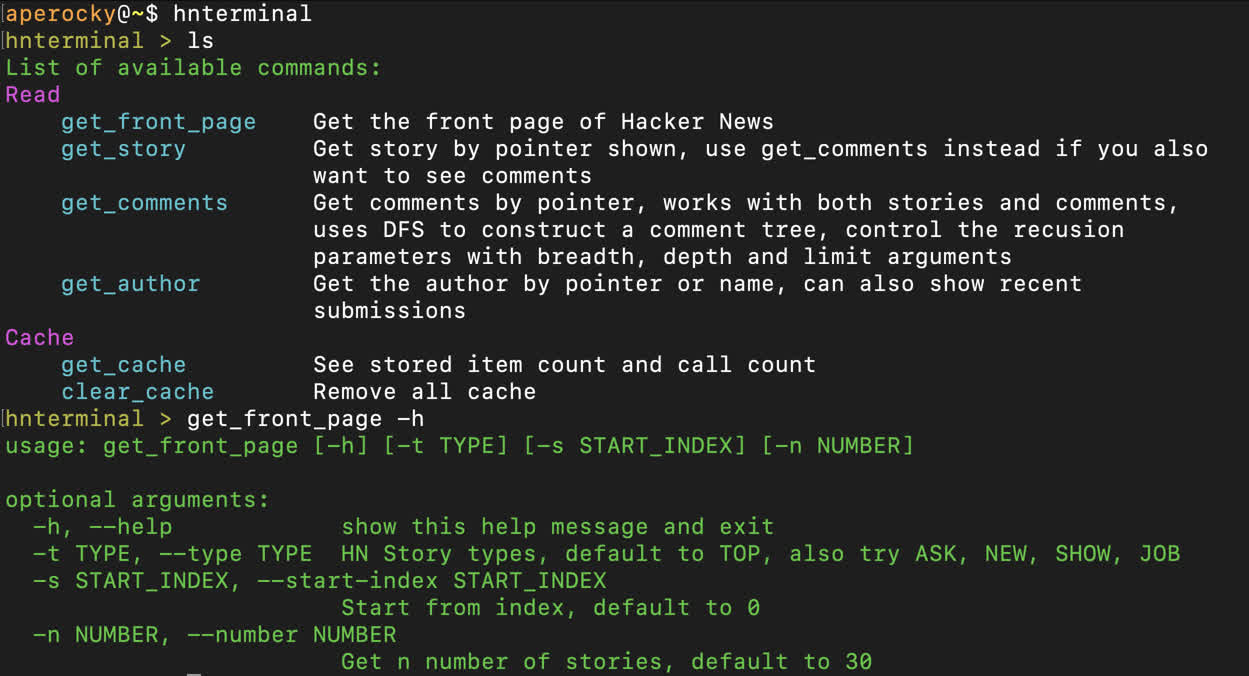
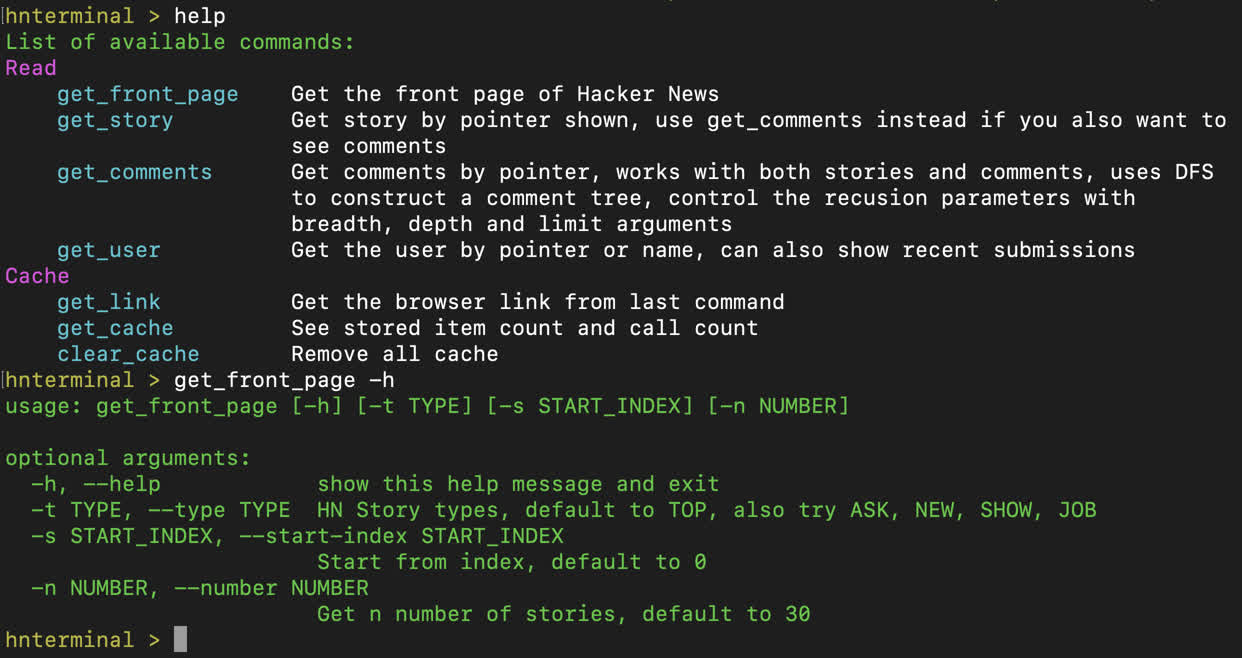
Add get_link to get browser link for previous commands, move get_author to get_user

Changed region(s): [[0.0, 0.0, 0.9791, 1.0], [0.9179, 0.7903, 0.9485, 0.8511]]

diff --git a/src/hnterminal/commands/get_user.py b/src/hnterminal/commands/get_user.py
@@ -7,10 +7,10 @@ from replbuilder import ReplCommand
 from .get_comments import print_comment
 
 
-def get_author_parser():
+def get_user_parser():
     parser = argparse.ArgumentParser()
     parser.add_argument('pointer', nargs="?", type=int, help="Get the comment belonging to previous listed pointer")
-    parser.add_argument('-a', '--author-name', type=str, help="Get author by name, case sensitive, must be provided if pointer isn't")
+    parser.add_argument('-u', '--user-name', type=str, help="Get user by name, case sensitive, must be provided if pointer isn't")
     parser.add_argument('-s', '--show-submits', action="store_true", help="Show the most recent n submits belonging to this user")
     parser.add_argument('-n', '--number', type=int, default=5, help="Number of submits to show, default to 5")
     return parser
@@ -50,28 +50,29 @@ def print_story_with_pointer(pointer, story):
     print()
 
 
-def get_author(args, context):
-    if not args.pointer and not args.author_name:
+def get_user(args, context):
+    if not args.pointer and not args.user_name:
         raise ValueError("Must either provide --pointer or --item-id")
     if args.pointer:
         item_id = context.current_pointers[args.pointer]
         context.store_item(item_id)
         item = context.loaded_items[item_id]
-        author_name = item["by"]
+        user_name = item["by"]
     else:
-        author_name = args.author_name
-    author_info = context.get_author_info(author_name)
-    if author_info is None:
-        raise ValueError("Provided author_name does not exist")
-    print("\033[1;36mUSER: {}\033[0m".format(author_name))
-    if "about" in author_info:
-        print_about(author_info["about"])
-    print("TOTAL SUBMITS : {}".format(len(author_info["submitted"])))
-    print("KARMA         : {}".format(author_info["karma"]))
+        user_name = args.user_name
+    user_info = context.get_user_info(user_name)
+    if user_info is None:
+        raise ValueError("Provided user_name does not exist")
+    context.store_link("user?id={}".format(user_name))
+    print("\033[1;36mUSER: {}\033[0m".format(user_name))
+    if "about" in user_info:
+        print_about(user_info["about"])
+    print("TOTAL SUBMITS : {}".format(len(user_info["submitted"])))
+    print("KARMA         : {}".format(user_info["karma"]))
     if args.show_submits:
         print("\033[1;32mDISPLAYING RECENT SUBMISSIONS\033[0m")
         print("\033[1;32m{pointer: <19} | {text}\033[0m".format(pointer="POINTER/AUTHOR", text="STORY/COMMENTS"))
-        recent_items = author_info["submitted"][:args.number]
+        recent_items = user_info["submitted"][:args.number]
         context.clear_pointers()
         pointer = 0
         for item_id in recent_items:
@@ -90,4 +91,4 @@ def get_author(args, context):
                 print_story_with_pointer(pointer, item)
 
 
-get_author_command = ReplCommand("get_author", get_author_parser(), get_author, "Get the author by pointer or name, can also show recent submissions", use_context=True)
+get_user_command = ReplCommand("get_user", get_user_parser(), get_user, "Get the user by pointer or name, can also show recent submissions", use_context=True)

diff --git a/src/hnterminal/hncontext.py b/src/hnterminal/hncontext.py
@@ -5,12 +5,15 @@ from replbuilder import ReplCommand
 
 class HNContext:
 
+    HN_BASE_URL = "https://news.ycombinator.com/"
+
     def __init__(self):
         self.client = HNClient()
         self.current_pointers = {}
         self.story_list = []
         self.loaded_items = {}
         self.call_count = 0
+        self.link = None
 
     def get_story_list(self, story_type="TOP"):
         self.call_count += 1
@@ -25,8 +28,17 @@ class HNContext:
             raise ValueError("Provided id does not exist")
         self.loaded_items[item_id] = item
 
-    def get_author_info(self, author_name):
-        return self.client.get_author(author_name)
+    def get_user_info(self, author_name):
+        return self.client.get_user(author_name)
+
+    def store_link(self, link):
+        self.link = link
+
+    def get_link(self, args):
+        if self.link is None:
+            print("No link stored yet")
+        else:
+            print("\033[4;35m{}\033[0m".format(HNContext.HN_BASE_URL + self.link))
 
     def store_pointer(self, index, item_id):
         self.current_pointers[index] = item_id
@@ -46,6 +58,7 @@ class HNContext:
 
     def get_context_commands(self):
         return [
+            ReplCommand("get_link", argparse.ArgumentParser(), self.get_link, "Get the browser link from last command"),
             ReplCommand("get_cache", argparse.ArgumentParser(), self.get_cache, "See stored item count and call count"),
             ReplCommand("clear_cache", argparse.ArgumentParser(), self.clear_cache, "Remove all cache"),
         ]

diff --git a/src/cli.py b/src/cli.py
@@ -3,7 +3,7 @@ from hnterminal.hncontext import HNContext
 from hnterminal.commands.get_front_page import get_front_page_command
 from hnterminal.commands.get_story import get_story_command
 from hnterminal.commands.get_comments import get_comments_command
-from hnterminal.commands.get_author import get_author_command
+from hnterminal.commands.get_user import get_user_command
 
 
 def build_cli():
@@ -13,7 +13,7 @@ def build_cli():
         get_front_page_command,
         get_story_command,
         get_comments_command,
-        get_author_command], namespace="Read")
+        get_user_command], namespace="Read")
     cli_runner.add_commands(hn_context.get_context_commands(), namespace="Cache")
     return cli_runner
 

diff --git a/src/hnterminal/hnclient.py b/src/hnterminal/hnclient.py
@@ -26,7 +26,7 @@ class HNClient:
         item_info = json.loads(request.urlopen(request_url).read())
         return item_info
 
-    def get_author(self, author_name):
+    def get_user(self, author_name):
         request_url = HNClient.HN_FIREBASE_URL + "user/{}.json".format(author_name)
         author_info = json.loads(request.urlopen(request_url).read())
         return author_info

diff --git a/src/hnterminal/commands/get_front_page.py b/src/hnterminal/commands/get_front_page.py
@@ -52,6 +52,8 @@ def get_front_page(args, context):
     context.clear_pointers()
     context.get_story_list(args.type)
     stories_of_interest = context.story_list[args.start_index:args.start_index+args.number]
+    sub_link = "" if args.type == "TOP" else args.type.lower()
+    context.store_link(sub_link)
 
     width = os.get_terminal_size().columns
     if width >= 155:

diff --git a/src/hnterminal/commands/get_comments.py b/src/hnterminal/commands/get_comments.py
@@ -27,6 +27,7 @@ def get_comments(args, context):
     context.clear_pointers()
     context.curr_pointer = 1
     context.store_item(item_id)
+    context.store_link("item?id={}".format(item_id))
     item = context.loaded_items[item_id]
     if item["type"] == "comment":
         level = 0

diff --git a/src/hnterminal/commands/get_story.py b/src/hnterminal/commands/get_story.py
@@ -43,6 +43,7 @@ def get_story(args, context):
     story = context.loaded_items[story_id]
     if story["type"] != "story":
         raise ValueError("Provided pointer or id is not a story")
+    context.store_link("item?id={}".format(story_id))
     print_story(story)
 
 

diff --git a/README.md b/README.md
@@ -22,7 +22,7 @@ Getting current front page information for any HN front page categories (`-n` de
 
 ![front page](images/get_front_page.jpg)
 
-Navigate using `POINTER` stored over previous command, `get_comments`, `get_author`, `get_story` all accept pointers:
+Navigate using `POINTER` stored over previous command, `get_comments`, `get_user`, `get_story` all accept pointers:
 
 ![comment pointer](images/get_comments.jpg)
 
@@ -36,11 +36,11 @@ Additionally, `-1` pointer is reserved for parent of comments, so you can trace 
 
 ![parent trace](images/parent_trace.jpg)
 
-parent trace is helpful since you can see user comments via `get_author`
+parent trace is helpful since you can see user comments via `get_user`
 
-`get_author get_comments get_story` also support manual input (in addition to pointers):
+`get_user get_comments get_story` also support manual input (in addition to pointers), you can also utilize `get_link` on any previous commands to get the link to browser:
 
-![dang](images/dang.jpg)
+![aperocky](images/aperocky.jpg)
 
 All story, comments you see are stored in the cache, for instant retrieval. However, each `get_front_page` call would invoke a call to front page to get the most recent list and order.
 
@@ -66,7 +66,7 @@ Read
     get_comments      Get comments by pointer, works with both stories and comments,
                       uses DFS to construct a comment tree, control the recusion
                       parameters with breadth, depth and limit arguments
-    get_author        Get the author by pointer or name, can also show recent
+    get_user        Get the author by pointer or name, can also show recent
                       submissions
 Cache
     get_cache         See stored item count and call count
@@ -129,7 +129,7 @@ dvngnt_                         | product
 ... more output omitted ...
 
 
-hnterminal > get_author 1 -sn 3
+hnterminal > get_user 1 -sn 3
 USER: mariorojas
 Back-end Developer. Morelia, Mexico.
 
